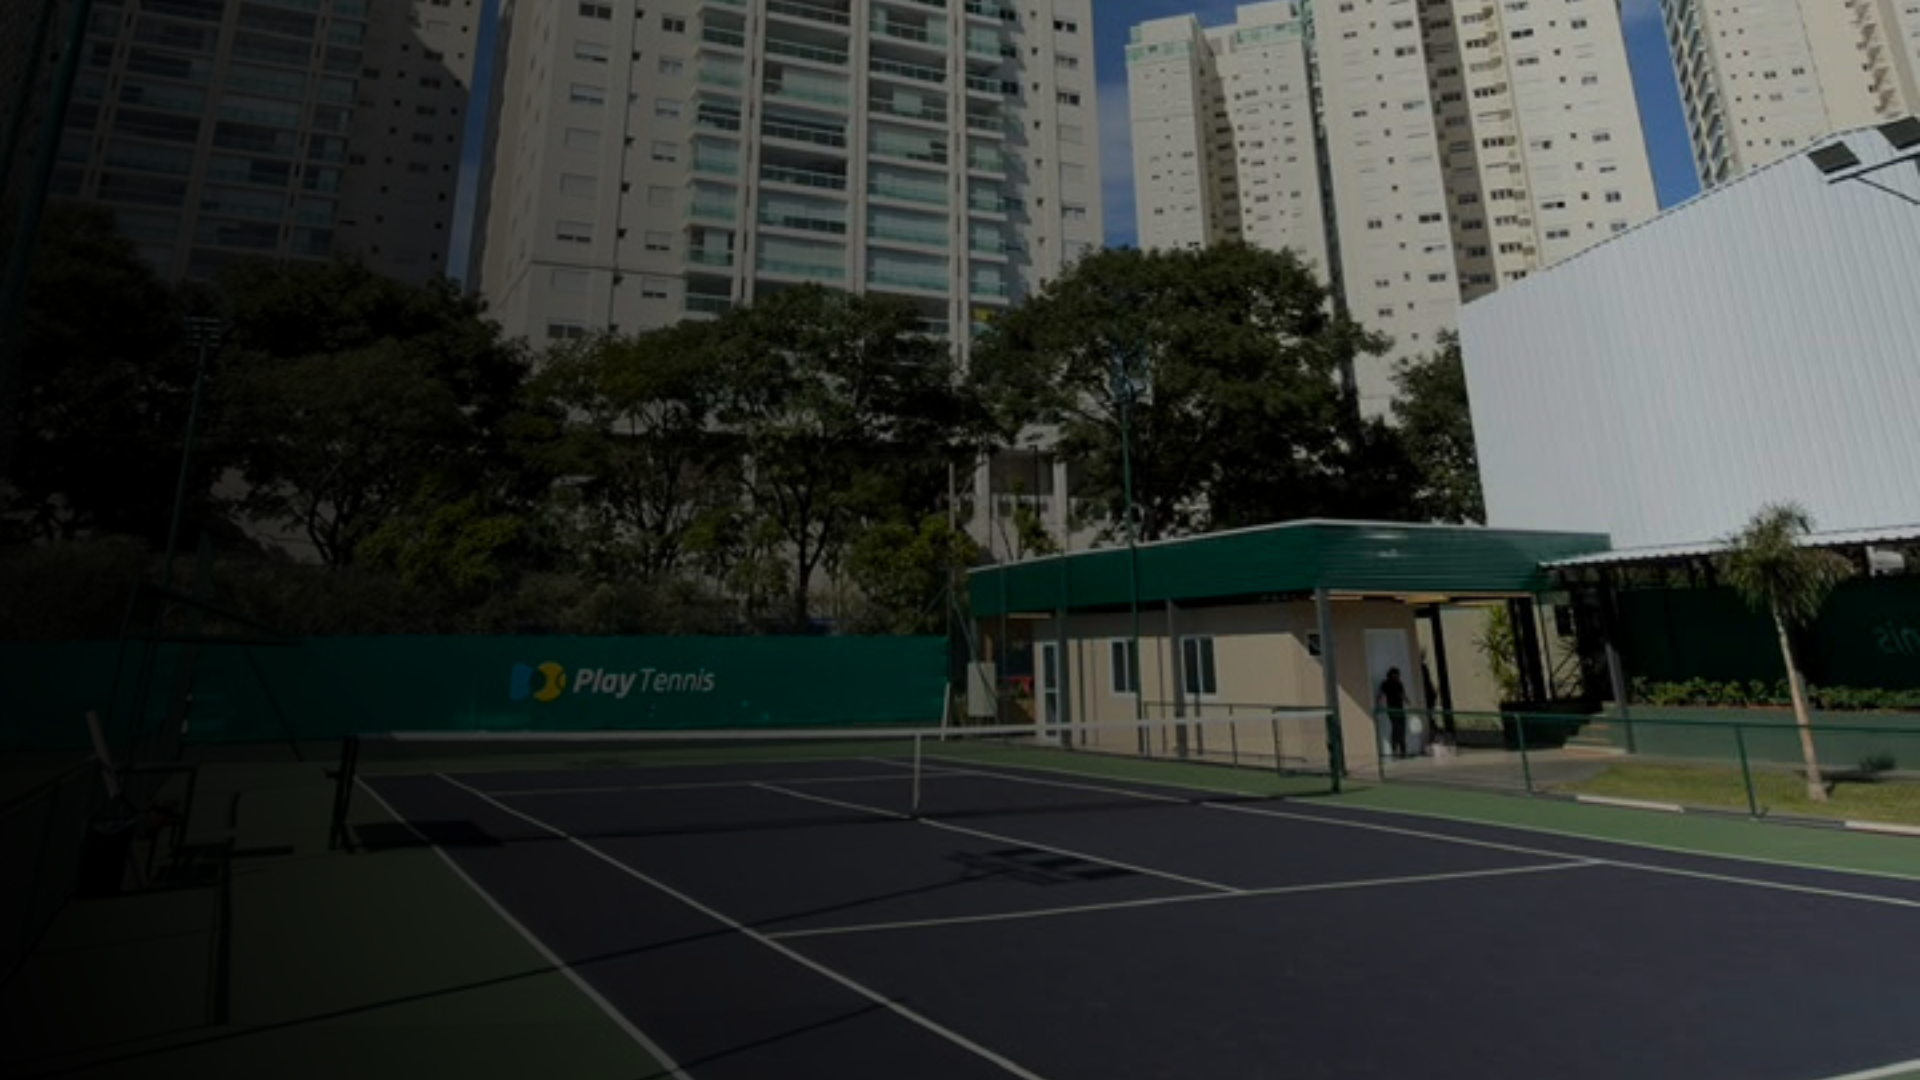
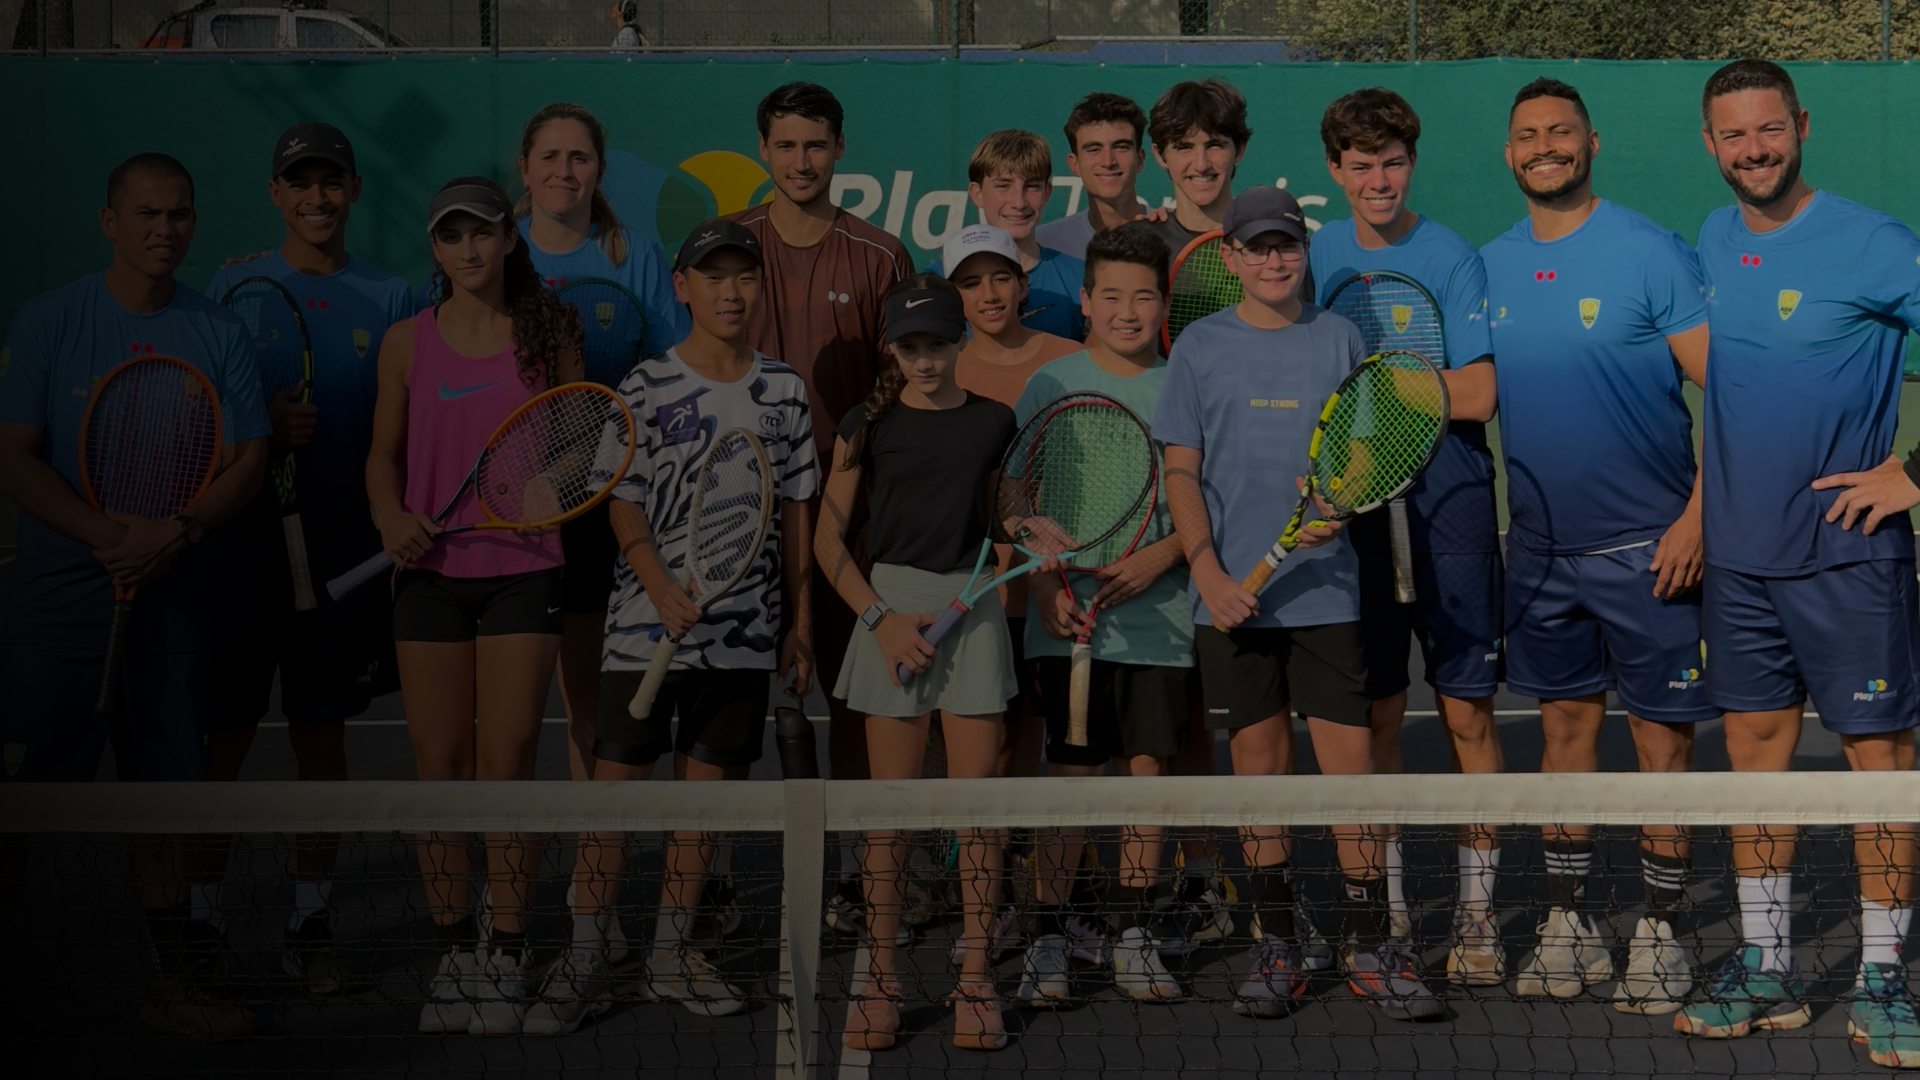
rich

diff --git a/src/data.ts b/src/data.ts
@@ -8,8 +8,8 @@ import {
   TeamMember,
 } from "./types";
 // BANNER
-import banner1 from "./assets/home1.jpeg";
-import banner2 from "./assets/home2.jpeg";
+import banner1 from "./assets/slide1.png";
+import banner2 from "./assets/slide2.png";
 import banner3 from "./assets/slide3.png";
 // UNIDADES
 import itajai from "./assets/itajai.jpeg";
